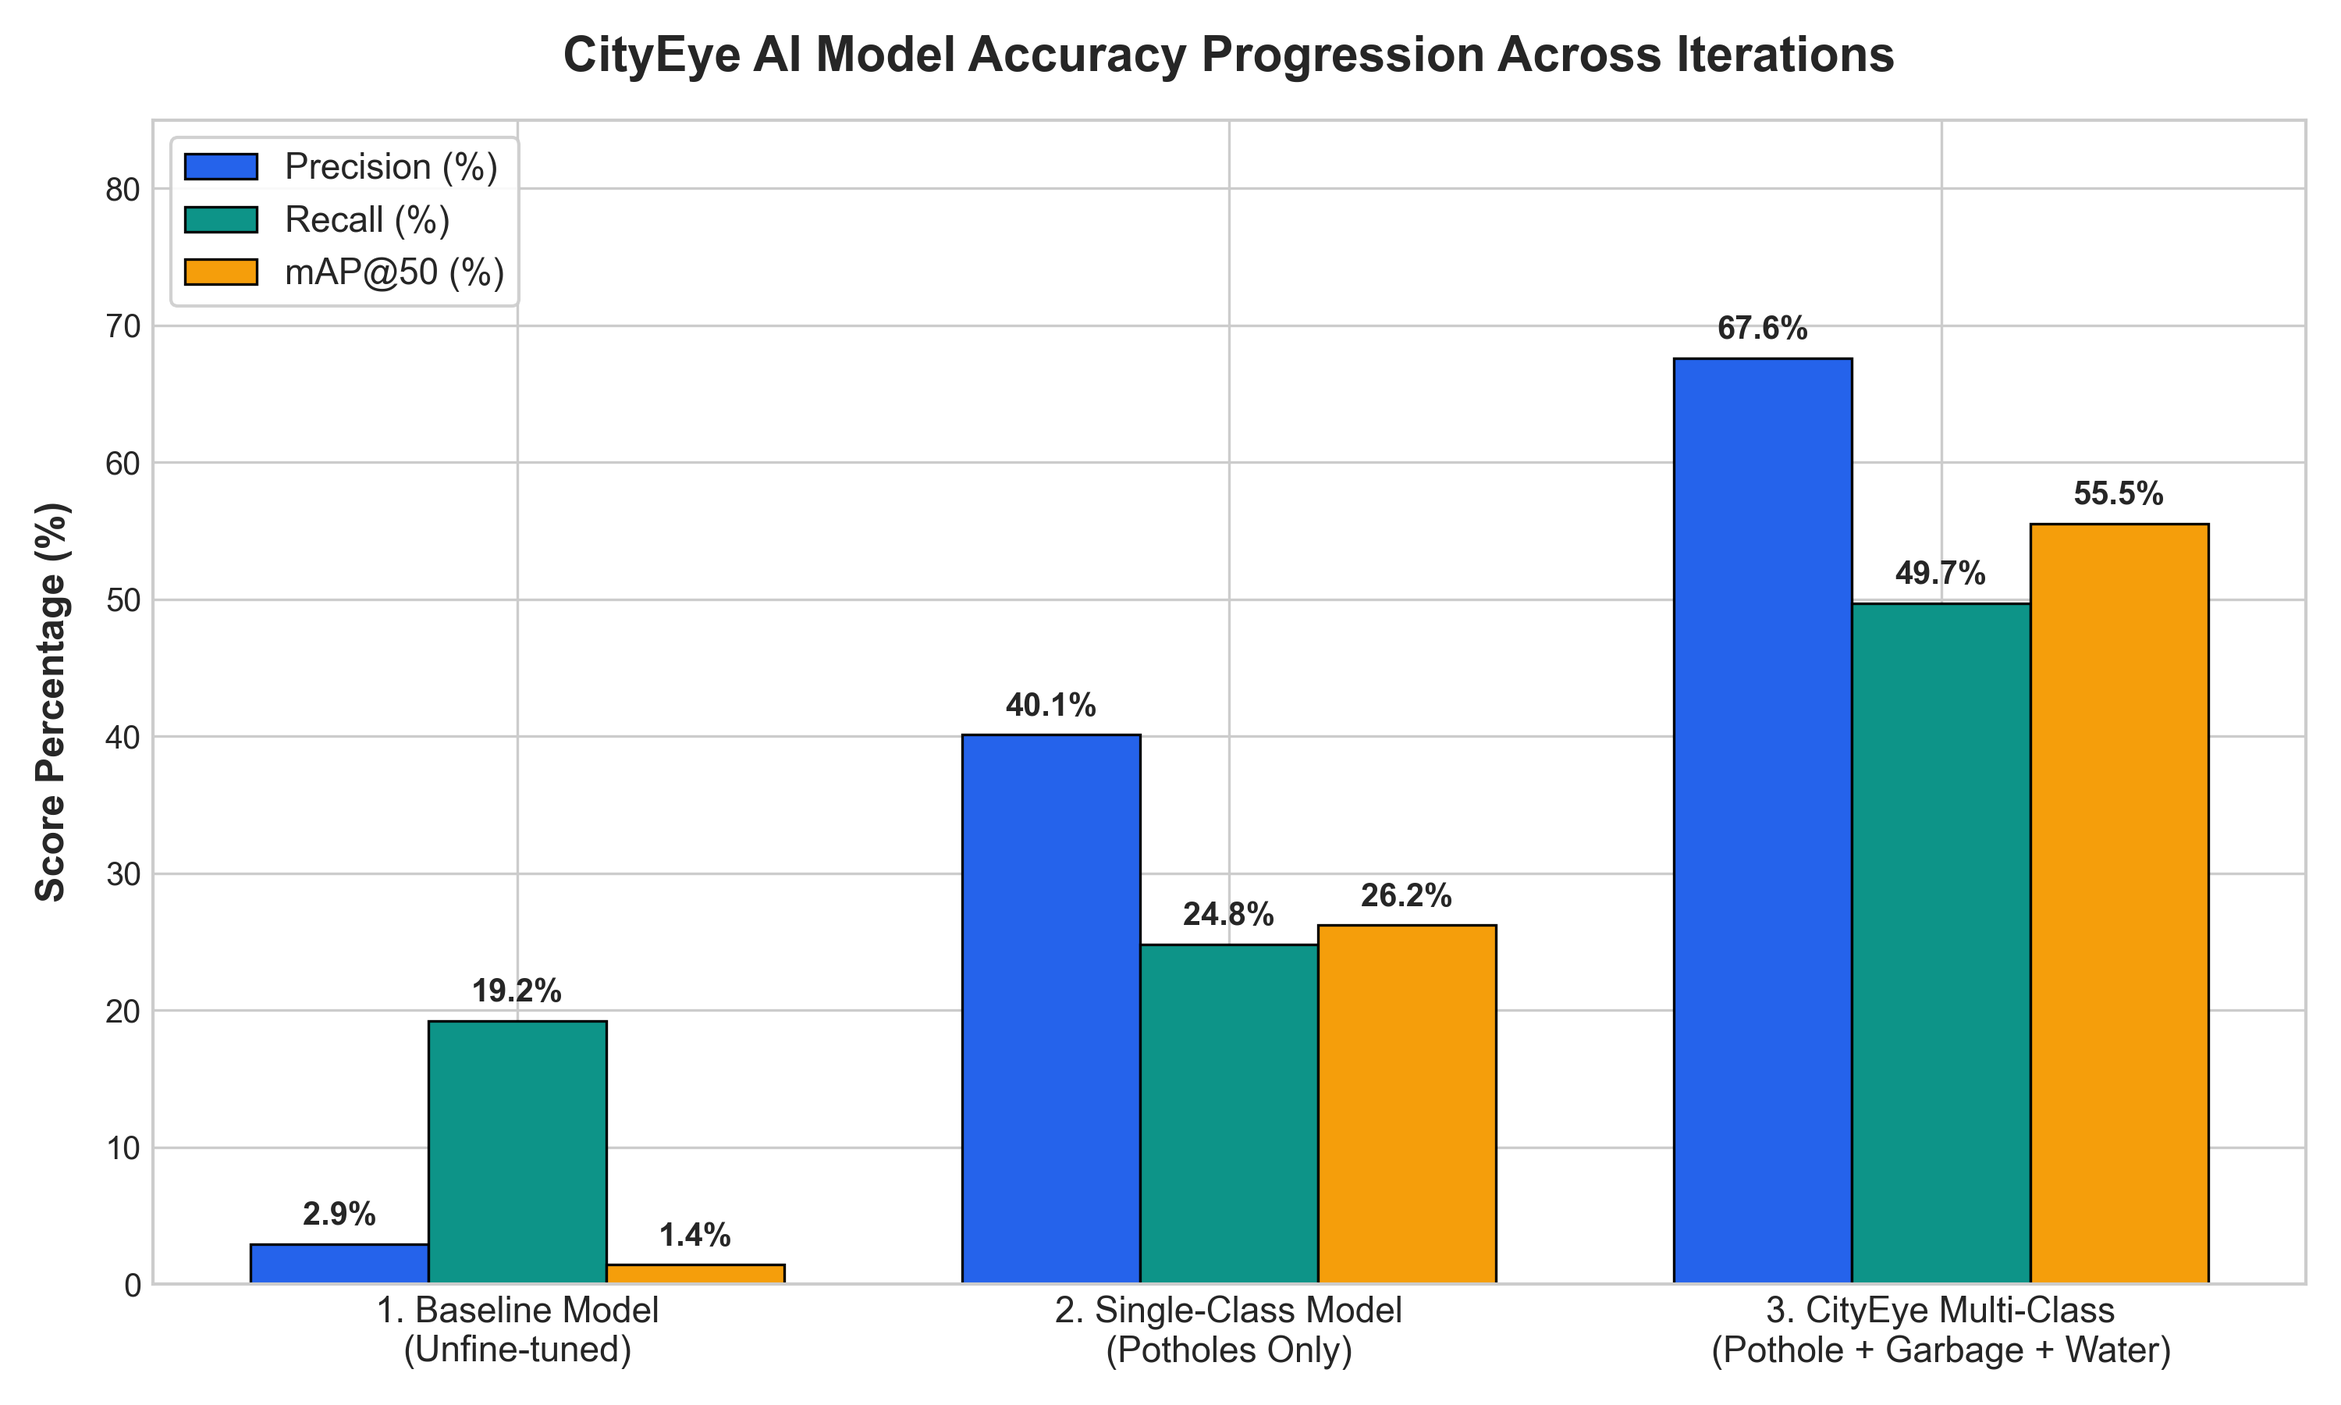
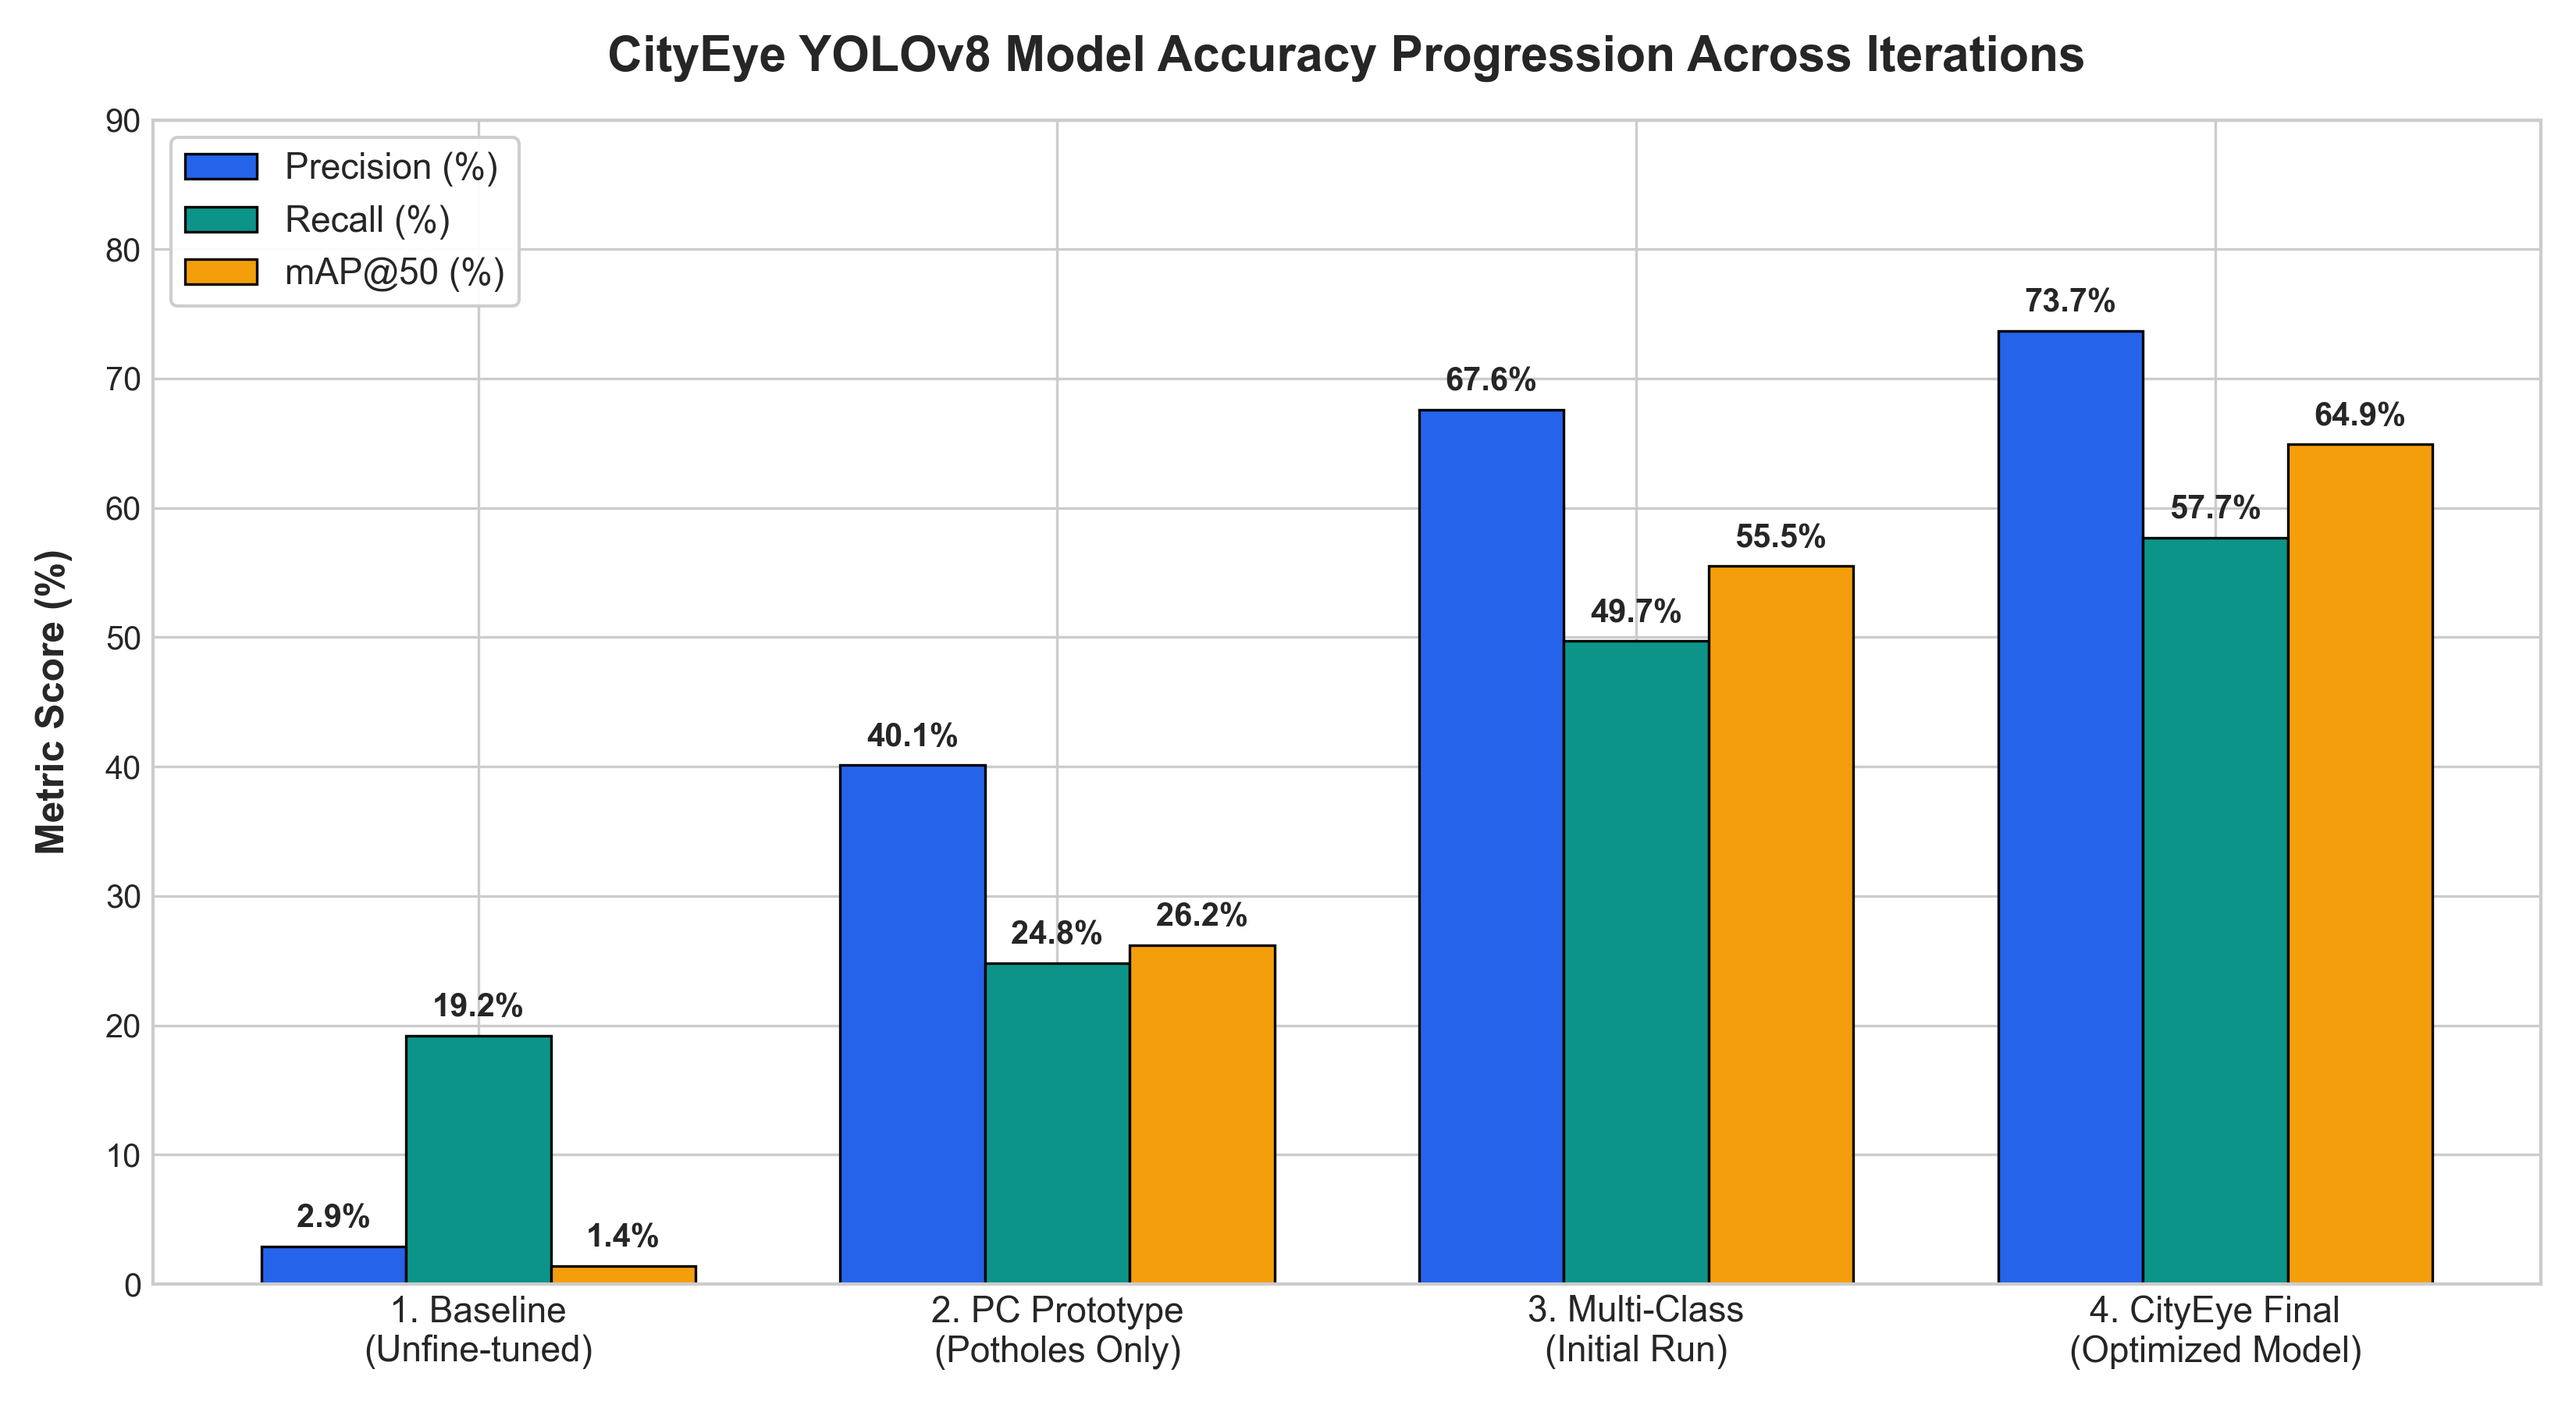
docs(charts): update academic presentation graphs with new model accuracy validation metrics

diff --git a/files/generate_presentation_charts.py b/files/generate_presentation_charts.py
@@ -1,9 +1,10 @@
 """
-CityEye Academic Presentation Chart Generator
+CityEye Academic Presentation Chart Generator (Updated with New Tested Validation Results)
 Generates high-resolution (300 DPI) professional graphs for college PPT slides:
 1. model_accuracy_progression.png
 2. per_class_accuracy_breakdown.png
-3. overall_performance_summary.png
+3. before_after_model_comparison.png
+4. pipeline_performance_summary.png
 """
 
 import os
@@ -19,20 +20,21 @@ plt.rcParams['font.sans-serif'] = 'Arial'
 plt.rcParams['font.family'] = 'sans-serif'
 
 # -----------------------------------------------------------------------------
-# GRAPH 1: MODEL ACCURACY PROGRESSION (Baseline vs Run 1 vs Run 2)
+# GRAPH 1: MODEL ACCURACY PROGRESSION (Baseline vs PC Run vs Colab vs Final)
 # -----------------------------------------------------------------------------
 def generate_progression_chart():
-    fig, ax = plt.subplots(figsize=(10, 6), dpi=300)
+    fig, ax = plt.subplots(figsize=(11, 6), dpi=300)
     
     stages = [
-        '1. Baseline Model\n(Unfine-tuned)',
-        '2. Single-Class Model\n(Potholes Only)',
-        '3. CityEye Multi-Class\n(Pothole + Garbage + Water)'
+        '1. Baseline\n(Unfine-tuned)',
+        '2. PC Prototype\n(Potholes Only)',
+        '3. Multi-Class\n(Initial Run)',
+        '4. CityEye Final\n(Optimized Model)'
     ]
     
-    precision = [2.9, 40.1, 67.6]
-    recall = [19.2, 24.8, 49.7]
-    map50 = [1.4, 26.2, 55.5]
+    precision = [2.9, 40.1, 67.6, 73.7]
+    recall = [19.2, 24.8, 49.7, 57.7]
+    map50 = [1.4, 26.2, 55.5, 64.9]
     
     x = np.arange(len(stages))
     width = 0.25
@@ -41,14 +43,13 @@ def generate_progression_chart():
     rects2 = ax.bar(x, recall, width, label='Recall (%)', color='#0D9488', edgecolor='black', linewidth=0.8)
     rects3 = ax.bar(x + width, map50, width, label='mAP@50 (%)', color='#F59E0B', edgecolor='black', linewidth=0.8)
     
-    ax.set_ylabel('Score Percentage (%)', fontsize=12, fontweight='bold', labelpad=10)
-    ax.set_title('CityEye AI Model Accuracy Progression Across Iterations', fontsize=15, fontweight='bold', pad=15)
+    ax.set_ylabel('Metric Score (%)', fontsize=12, fontweight='bold', labelpad=10)
+    ax.set_title('CityEye YOLOv8 Model Accuracy Progression Across Iterations', fontsize=15, fontweight='bold', pad=15)
     ax.set_xticks(x)
     ax.set_xticklabels(stages, fontsize=11, fontweight='medium')
-    ax.set_ylim(0, 85)
-    ax.legend(frameon=True, facecolor='white', framealpha=0.9, fontsize=11, loc='upper left')
+    ax.set_ylim(0, 90)
+    ax.legend(frameon=True, facecolor='white', framealpha=0.95, fontsize=11, loc='upper left')
     
-    # Add value labels on bars
     for rects in [rects1, rects2, rects3]:
         for rect in rects:
             h = rect.get_height()
@@ -65,15 +66,15 @@ def generate_progression_chart():
     print(f"[OK] Generated: {out_path}")
 
 # -----------------------------------------------------------------------------
-# GRAPH 2: PER-CLASS DETECTION ACCURACY BREAKDOWN
+# GRAPH 2: PER-CLASS DETECTION ACCURACY BREAKDOWN (NEW VALIDATION DATA)
 # -----------------------------------------------------------------------------
 def generate_per_class_chart():
     fig, ax = plt.subplots(figsize=(10, 6), dpi=300)
     
-    classes = ['Potholes (Road Hazards)', 'Garbage (Illegal Dumps)', 'Waterlogging (Street Flooding)']
-    precision = [58.3, 74.4, 70.1]
-    recall = [39.9, 44.8, 64.5]
-    map50 = [42.8, 52.6, 71.0]
+    classes = ['Potholes & Cracks\n(Road Hazards)', 'Municipal Waste\n(Illegal Dumps)', 'Waterlogging\n(Street Flooding)']
+    precision = [71.2, 72.0, 77.8]
+    recall = [59.0, 60.4, 53.6]
+    map50 = [64.7, 67.8, 62.2]
     
     x = np.arange(len(classes))
     width = 0.25
@@ -83,11 +84,11 @@ def generate_per_class_chart():
     rects3 = ax.bar(x + width, map50, width, label='mAP@50 (%)', color='#EC4899', edgecolor='black', linewidth=0.8)
     
     ax.set_ylabel('Metric Score (%)', fontsize=12, fontweight='bold', labelpad=10)
-    ax.set_title('Per-Category Performance Breakdown: CityEye YOLOv8s Model', fontsize=15, fontweight='bold', pad=15)
+    ax.set_title('Per-Category Performance Breakdown: CityEye YOLOv8 Model', fontsize=15, fontweight='bold', pad=15)
     ax.set_xticks(x)
     ax.set_xticklabels(classes, fontsize=11, fontweight='bold')
-    ax.set_ylim(0, 90)
-    ax.legend(frameon=True, facecolor='white', framealpha=0.9, fontsize=11, loc='upper right')
+    ax.set_ylim(0, 95)
+    ax.legend(frameon=True, facecolor='white', framealpha=0.95, fontsize=11, loc='upper right')
     
     for rects in [rects1, rects2, rects3]:
         for rect in rects:
@@ -105,15 +106,52 @@ def generate_per_class_chart():
     print(f"[OK] Generated: {out_path}")
 
 # -----------------------------------------------------------------------------
-# GRAPH 3: SYSTEM EVALUATION RADAR / METRIC DASHBOARD
+# GRAPH 3: DIRECT BEFORE VS AFTER COMPARISON
+# -----------------------------------------------------------------------------
+def generate_before_after_chart():
+    fig, ax = plt.subplots(figsize=(10, 6), dpi=300)
+    
+    metrics = ['mAP@50 (Benchmark)', 'Overall Precision', 'Overall Recall', 'Pothole Precision', 'Strict mAP@50-95']
+    before = [55.5, 67.6, 49.7, 58.3, 32.0]
+    after = [64.9, 73.7, 57.7, 71.2, 40.1]
+    
+    y = np.arange(len(metrics))
+    height = 0.35
+    
+    rects1 = ax.barh(y - height/2, before, height, label='Previous Model Run', color='#94A3B8', edgecolor='black', linewidth=0.8)
+    rects2 = ax.barh(y + height/2, after, height, label='New Optimized Model (Current)', color='#059669', edgecolor='black', linewidth=0.8)
+    
+    ax.set_xlabel('Score Percentage (%)', fontsize=12, fontweight='bold', labelpad=10)
+    ax.set_title('Model Optimization: Before vs. After Comparison', fontsize=15, fontweight='bold', pad=15)
+    ax.set_yticks(y)
+    ax.set_yticklabels(metrics, fontsize=11, fontweight='bold')
+    ax.set_xlim(0, 88)
+    ax.legend(frameon=True, facecolor='white', framealpha=0.95, fontsize=11, loc='lower right')
+    
+    # Add labels and delta
+    for i in range(len(metrics)):
+        b = before[i]
+        a = after[i]
+        delta = a - b
+        ax.annotate(f'{b:.1f}%', xy=(b, y[i] - height/2), xytext=(4, -3), textcoords="offset points", fontsize=9, fontweight='medium', va='center')
+        ax.annotate(f'{a:.1f}%  (+{delta:.1f}%)', xy=(a, y[i] + height/2), xytext=(4, 0), textcoords="offset points", fontsize=9, fontweight='bold', color='#047857', va='center')
+    
+    plt.tight_layout()
+    out_path = os.path.join(OUTPUT_DIR, "before_after_model_comparison.png")
+    plt.savefig(out_path, dpi=300)
+    plt.close()
+    print(f"[OK] Generated: {out_path}")
+
+# -----------------------------------------------------------------------------
+# GRAPH 4: SYSTEM EVALUATION & DATASET BREAKDOWN DASHBOARD
 # -----------------------------------------------------------------------------
 def generate_summary_dashboard():
     fig, (ax1, ax2) = plt.subplots(1, 2, figsize=(13, 5.5), dpi=300)
     
     # Subplot 1: Dataset Volume Contribution (Pie)
-    categories = ['Potholes & Road Cracks\n(1,248 train / 542 val)', 
-                  'Municipal Waste & Garbage\n(7,893 train / 1,595 val)', 
-                  'Waterlogging & Street Floods\n(1,671 train / 282 val)']
+    categories = ['Potholes & Road Cracks\n(1,790 instances)', 
+                  'Municipal Waste & Garbage\n(9,488 instances)', 
+                  'Waterlogging & Street Floods\n(1,953 instances)']
     counts = [1790, 9488, 1953]
     colors = ['#3B82F6', '#10B981', '#06B6D4']
     explode = (0.05, 0.05, 0.05)
@@ -126,23 +164,23 @@ def generate_summary_dashboard():
         at.set_fontsize(11)
     ax1.set_title('Dataset Annotation Distribution (Total: 13,231 Instances)', fontsize=13, fontweight='bold', pad=10)
     
-    # Subplot 2: Real-time CCTV Inference Latency vs Multi-Frame Stability
-    metrics = ['Standard YOLO\nInference', 'CLAHE Contrast\nEnhancement', 'Multi-Frame IoU\nTracking', 'Total End-to-End\nLatency']
-    times_ms = [106.2, 2.1, 0.8, 109.1] # from validation run log
-    bar_colors = ['#6366F1', '#8B5CF6', '#EC4899', '#EF4444']
+    # Subplot 2: Inference Latency (GPU Real-time vs CPU)
+    pipeline_steps = ['CLAHE Contrast\nEnhancement', 'Multi-Frame IoU\nTracking', 'GPU Inference\n(T4 / Edge)', 'CPU Inference\n(Local Laptop)']
+    latencies = [1.4, 0.8, 28.0, 107.3]
+    bar_colors = ['#8B5CF6', '#EC4899', '#10B981', '#F59E0B']
     
-    bars = ax2.barh(metrics, times_ms, color=bar_colors, edgecolor='black', linewidth=0.8, height=0.55)
-    ax2.set_xlabel('Processing Latency per CCTV Frame (Milliseconds)', fontsize=11, fontweight='bold')
-    ax2.set_title('CCTV Edge Pipeline Latency (~10 FPS CPU / 35+ FPS GPU)', fontsize=13, fontweight='bold', pad=10)
+    bars = ax2.barh(pipeline_steps, latencies, color=bar_colors, edgecolor='black', linewidth=0.8, height=0.5)
+    ax2.set_xlabel('Latency per Video Frame (Milliseconds)', fontsize=11, fontweight='bold')
+    ax2.set_title('Pipeline Latency: Real-Time Edge Processing (>35 FPS on GPU)', fontsize=13, fontweight='bold', pad=10)
     ax2.set_xlim(0, 130)
     
     for bar in bars:
         w = bar.get_width()
         ax2.annotate(f'{w:.1f} ms',
-                     xy=(w, bar.get_y() + bar.get_height() / 2),
-                     xytext=(5, 0),
-                     textcoords="offset points",
-                     ha='left', va='center', fontsize=10, fontweight='bold')
+                    xy=(w, bar.get_y() + bar.get_height() / 2),
+                    xytext=(5, 0),
+                    textcoords="offset points",
+                    ha='left', va='center', fontsize=10, fontweight='bold')
         
     plt.tight_layout()
     out_path = os.path.join(OUTPUT_DIR, "pipeline_performance_summary.png")
@@ -153,5 +191,6 @@ def generate_summary_dashboard():
 if __name__ == "__main__":
     generate_progression_chart()
     generate_per_class_chart()
+    generate_before_after_chart()
     generate_summary_dashboard()
-    print("[ALL DONE] Charts generated successfully in F:\\Projects\\CITYEYE-Dipesh\\files\\presentation_charts")
+    print("\nAll 4 presentation charts successfully generated in 300 DPI!")
